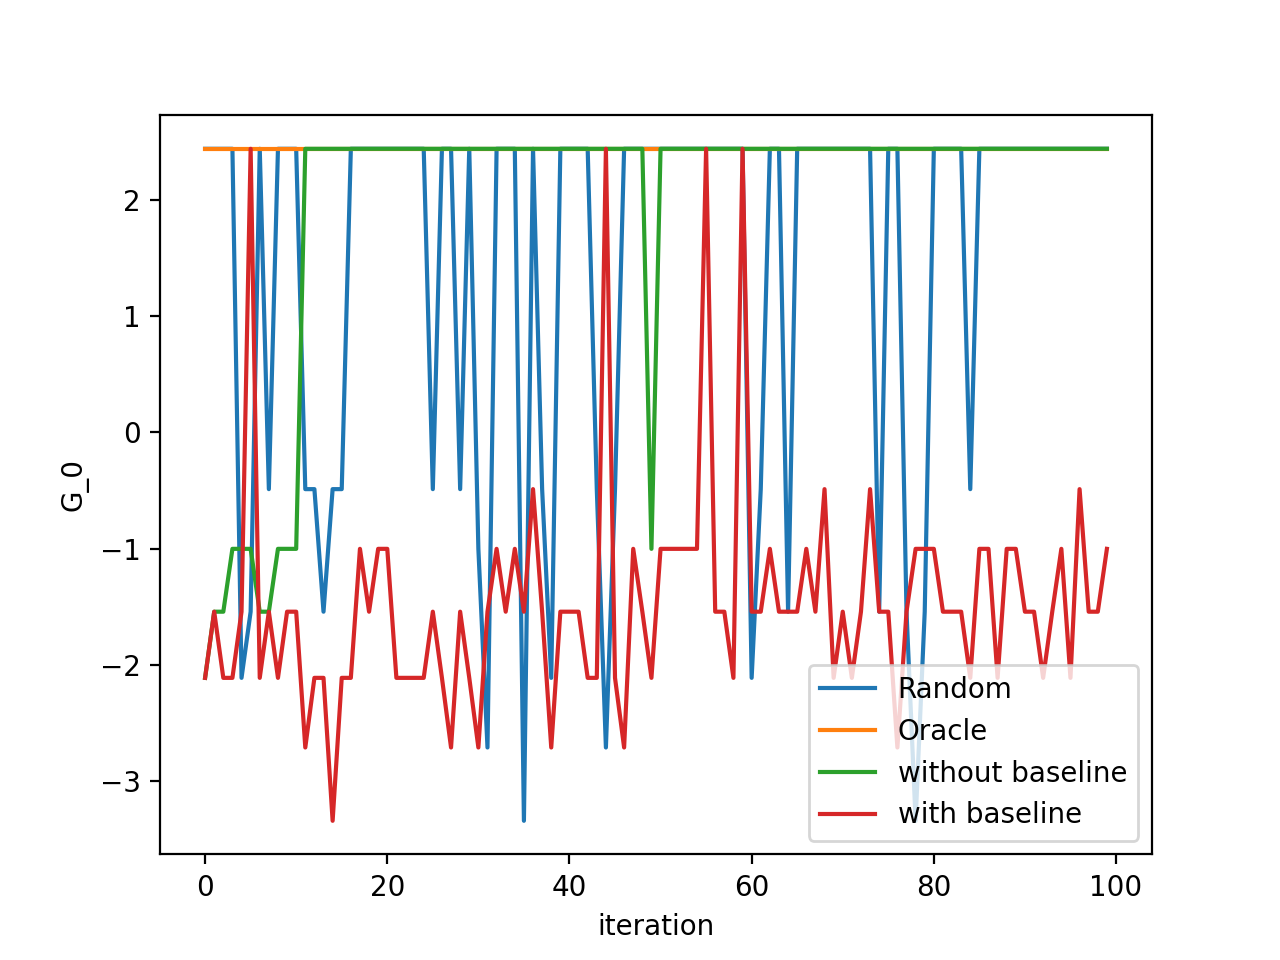
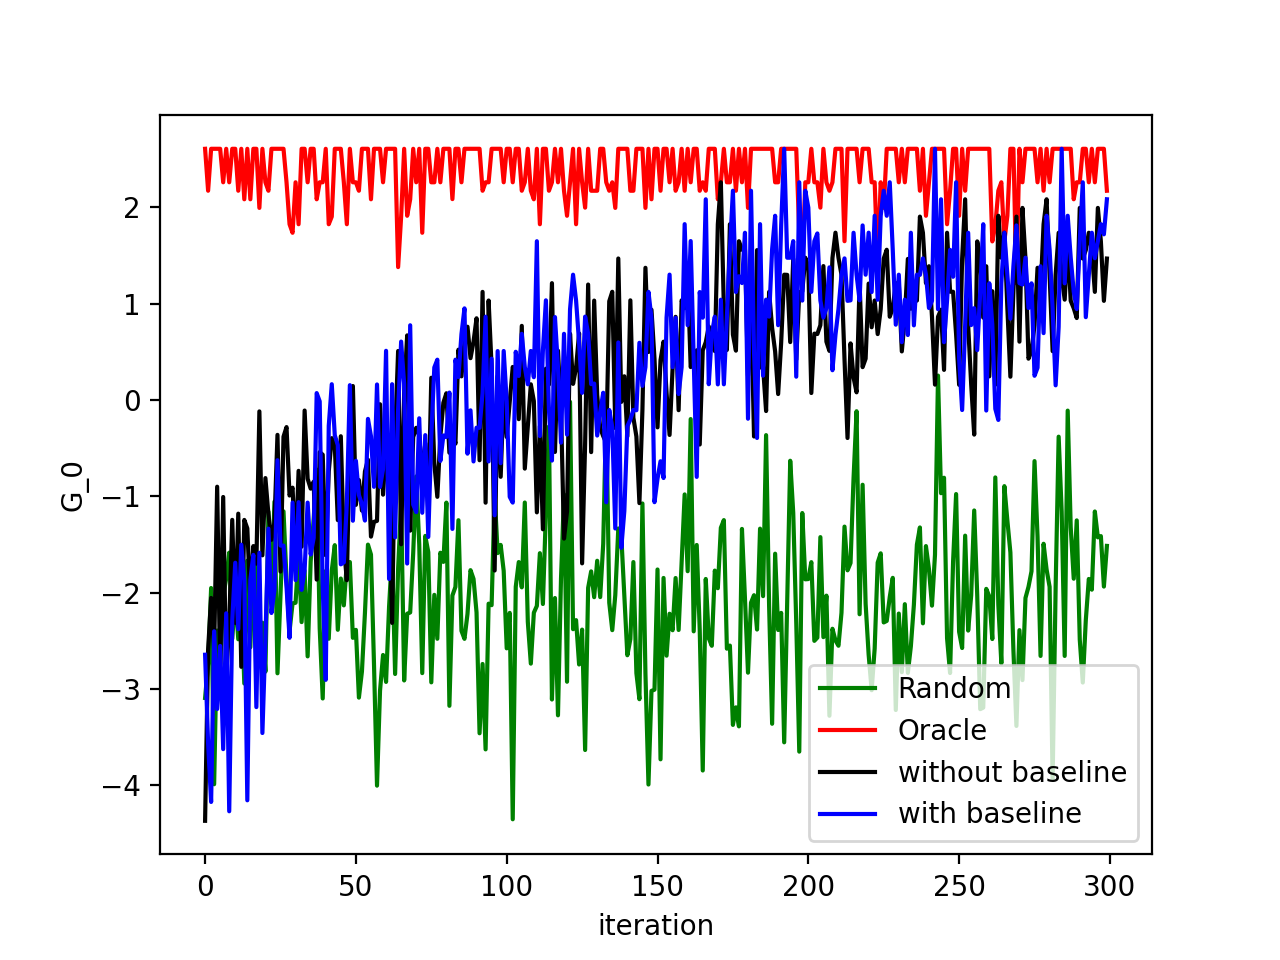
change problem parameters to make it harder

diff --git a/test_reinforce.py b/test_reinforce.py
@@ -6,10 +6,10 @@ from benchmarks import RandomPolicy, OraclePolicy
 
 from reinforce import REINFORCE, PiApproximationWithNN, Baseline, VApproximationWithNN
 
-epiround = 100
-gamma = 0.95
-renderTF = True
-num_iter = 1
+epiround = 300
+gamma = 0.99
+renderTF = False
+num_iter = 10
 
 
 def test_reinforce(with_baseline):
@@ -35,7 +35,7 @@ def test_random():
 
     RandomPi = RandomPolicy(
         env.observation_space.shape[0],
-        env.action_space.shape[0])
+        env.numSites)
 
     B = Baseline(0.)
 
@@ -61,7 +61,7 @@ if __name__ == "__main__":
         random.append(training_progress)
     random = np.mean(random,axis=0)
     print("Random:", np.mean(random))
-    input()
+    # input()
 
     # Oracle Policy
     oracle = []
@@ -70,7 +70,7 @@ if __name__ == "__main__":
         oracle.append(training_progress)
     oracle = np.mean(oracle,axis=0)
     print("Oracle:", np.mean(oracle))
-    input()
+    # input()
 
     # Test REINFORCE with baseline
     with_baseline = []
@@ -92,10 +92,10 @@ if __name__ == "__main__":
 
     # Plot the experiment result
     fig,ax = plt.subplots()
-    ax.plot(np.arange(len(random)),random, label='Random')
-    ax.plot(np.arange(len(oracle)),oracle, label='Oracle')
-    ax.plot(np.arange(len(without_baseline)),without_baseline, label='without baseline')
-    ax.plot(np.arange(len(with_baseline)),with_baseline, label='with baseline')
+    ax.plot(np.arange(len(random)),random, label='Random', c='g')
+    ax.plot(np.arange(len(oracle)),oracle, label='Oracle', c='r')
+    ax.plot(np.arange(len(without_baseline)),without_baseline, label='without baseline', c='black')
+    ax.plot(np.arange(len(with_baseline)),with_baseline, label='with baseline', c='b')
 
     ax.set_xlabel('iteration')
     ax.set_ylabel('G_0')

diff --git a/env.py b/env.py
@@ -1,12 +1,13 @@
+from multiprocessing.dummy import active_children
 from pydoc import render_doc
 from gym import Env
 import numpy as np
 
-expParaList = [3.1, 2.9, 4.4, 2.5, 3.4, 4.7]
-cList = [25., 34., 50., 29., 32., 43.]
+expParaList = [0.9, 1.9, 2.4, 2.5, 3.4, 4.7]
+cList = [25., 34., 27., 29., 32., 43.]
 
 actionList = np.array([
-    [1,0,0], [0,1,0], [0,0,1], [0.5,0.5,0], [0.5,0,0.5], [0,0.5,0.5]
+    [1,0,0], [0,1,0], [0,0,1], [0.5,0.5,0], [0.5,0,0.5], [0,0.5,0.5], [1/3, 1/3, 1/3]
 ])
 
 class Site:
@@ -58,7 +59,7 @@ class SiteEnv(Env):
         ### current state 
         self.state = self.reset()
 
-        ### rener: print state info or not
+        ### render: print state info or not
         self.renderTF = renderTF
 
     def generateActionList(self, randomSeed=42):
@@ -81,7 +82,7 @@ class SiteEnv(Env):
         if noExceed:
             reward += 0
             if self.current_round == self.rounds:
-                reward += (self.numSites + 2)
+                reward += (self.numSites)
         # _ = np.clip(_ - self.cList, a_min=0, a_max=None)
         # reward = 2 - np.sum(_)
         return reward
@@ -90,7 +91,10 @@ class SiteEnv(Env):
         done = False
         info = {"Hello world."}
         self.current_round += 1
-        action = self.actionList[actionNum] ### choose action
+        if isinstance(actionNum, int):
+            action = self.actionList[actionNum] ### choose action
+        else:
+            action = actionNum
         action = self.state[-1] * action / np.sum(action) ### normalize
 
         next_state = np.zeros_like(self.state)

diff --git a/benchmarks.py b/benchmarks.py
@@ -16,7 +16,9 @@ class RandomPolicy():
 
     def __call__(self,s) -> int:
         # TODO: implement this method
-        action = np.random.choice(self.a_dim)
+        action = np.random.rand(self.a_dim)
+        action /= np.sum(action)
+        # action = np.random.choice(self.a_dim)
         return action
 
     def update(self, s, a, gamma_t, delta):
@@ -39,15 +41,17 @@ class OraclePolicy():
     def __call__(self,s, env) -> int:
         # TODO: implement this method
         # actionList = np.array([
-            # [1,0,0], [0,1,0], [0,0,1], [0.5,0.5,0], [0.5,0,0.5], [0,0.5,0.5]
+            # [1,0,0], [0,1,0], [0,0,1], [0.5,0.5,0], [0.5,0,0.5], [0,0.5,0.5], [1/3, 1/3, 1/3]
         # ])
         sumdD = env.sumd + s[:-1]
         buffer = env.cList - sumdD
         action = np.argmax(buffer)
+        if np.any(np.isnan(action)):
+            action = 6
         # print("Oracle", action)
         # input()
 
-        return action
+        return int(action)
 
     def update(self, s, a, gamma_t, delta):
         pass

diff --git a/reinforce.py b/reinforce.py
@@ -8,7 +8,7 @@ from torch.utils import data
 
 # torch.random.manual_seed(31)
 torch.set_default_dtype(torch.float64)
-T = 0.05
+T = 1
 
 # Fetch GPU
 device = torch.device('cpu')
@@ -116,6 +116,7 @@ class PiApproximationWithNN():
         output = self.model(torch.tensor(s)).detach().numpy()
         if not np.isclose(np.sum(output), 1.0):
             print('Output is not prob:', output, np.sum(output))
+            print(s)
             input()
         action = np.random.choice(self.a_dim, p=output)
         # if np.random.rand() <= 0.05:
